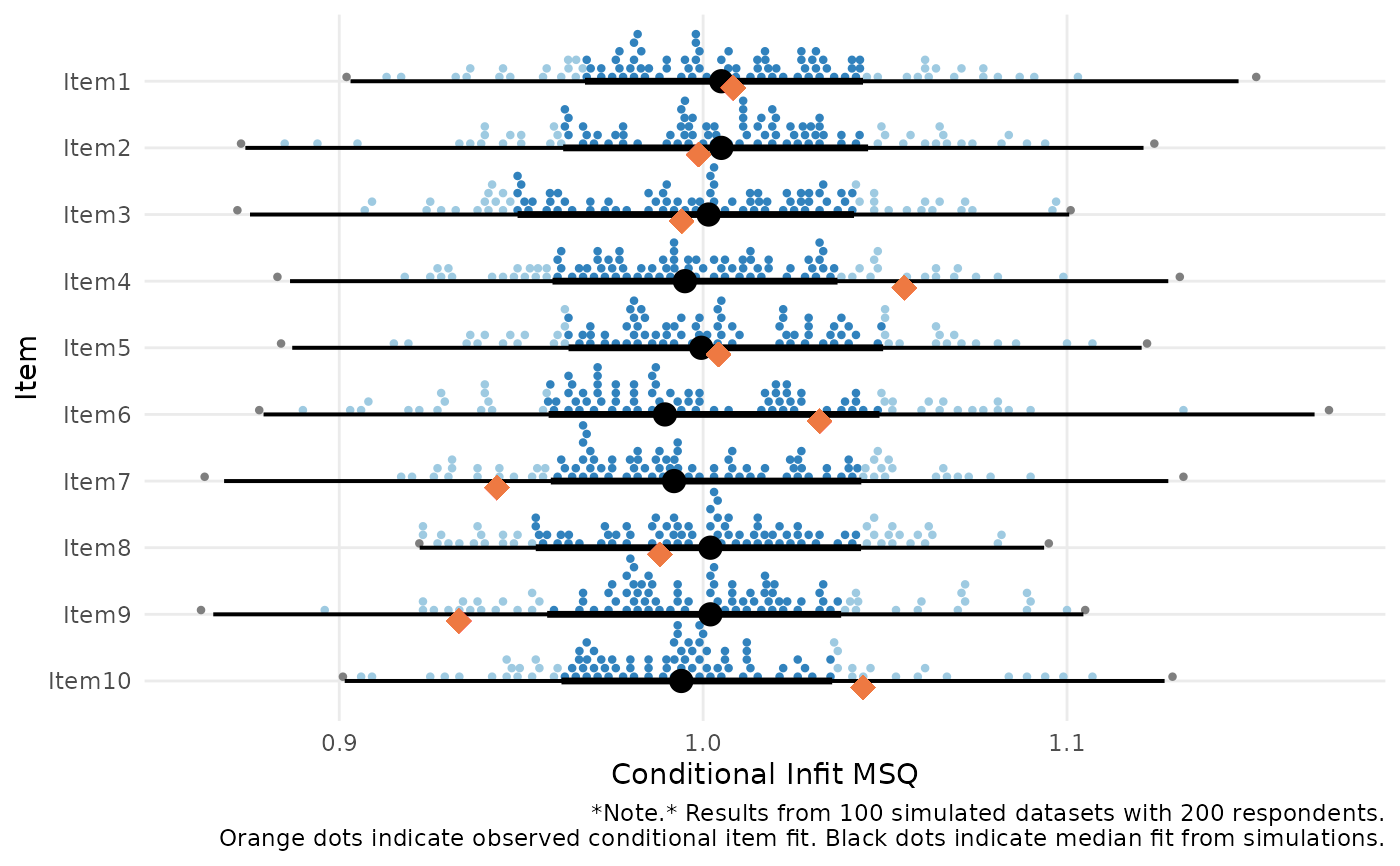
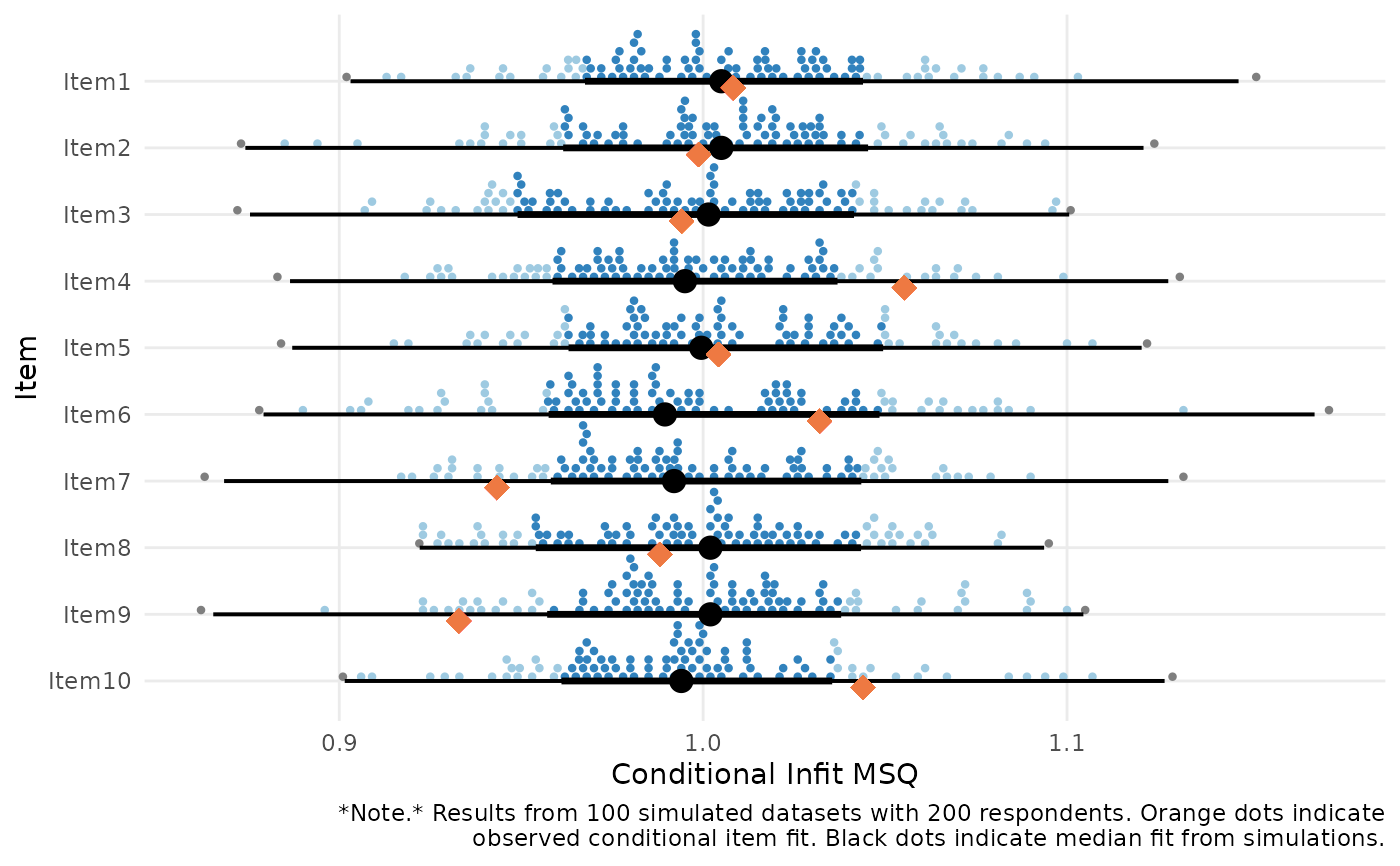
Deploying to gh-pages from @ pgmj/easyRasch2@698937d3c5966bd8b0e131c59c92cd37349e4fb9 🚀

Changed region(s): [[0.1536, 0.9042, 0.9829, 0.9977]]

diff --git a/news/index.html b/news/index.html
@@ -36,6 +36,18 @@
     <div class="section level2">
 <h2 class="pkg-version" data-toc-text="0.8.0" id="easyrasch2-080">easyRasch2 0.8.0<a class="anchor" aria-label="anchor" href="#easyrasch2-080"></a></h2>
 <div class="section level3">
+<h3 id="visual-consistency-across-all-plot-output-0-8-0">Visual consistency across all plot output<a class="anchor" aria-label="anchor" href="#visual-consistency-across-all-plot-output-0-8-0"></a></h3>
+<ul><li>Every <code>RM*</code> function that returns a <code>ggplot</code> now applies three shared internal theme helpers:
+<ul><li>
+<code>er2_axis_margins()</code> — extra breathing room around the x and y axis titles.</li>
+<li>
+<code>er2_plot_caption()</code> — left-aligned 9 pt plot caption. When the optional <code>ggtext</code> package is installed (new in Suggests), the caption renders via <code><a href="https://wilkelab.org/ggtext/reference/element_markdown.html" class="external-link">ggtext::element_markdown()</a></code> so the APA-conventional italic “<em>Note.</em>” prefix can sit alongside roman body text. Without <code>ggtext</code>, it falls back to a plain <code>element_text(face = "italic")</code> and a plain “Note.” prefix — no markdown asterisks ever leak through to the rendered text.</li>
+<li>
+<code>er2_caption()</code> — builds the caption string with the “Note.” prefix and wraps long captions at 90 characters via <code><a href="https://rdrr.io/r/base/strwrap.html" class="external-link">strwrap()</a></code> so they no longer run off the right edge of the plot. The body text is wrapped first then prefixed, so the prefix is never broken by a line break.</li>
+</ul></li>
+<li>All three helpers are internal (<code>@noRd</code>) and not exported.</li>
+</ul></div>
+<div class="section level3">
 <h3 id="new-function-0-8-0">New function<a class="anchor" aria-label="anchor" href="#new-function-0-8-0"></a></h3>
 <ul><li>
 <strong><code><a href="../reference/RMitemCatProb.html">RMitemCatProb()</a></code></strong> plots model-implied category-response probability curves per item, similar to <code><a href="https://rdrr.io/pkg/eRm/man/plotICC.html" class="external-link">eRm::plotICC()</a></code> or <code>mirt</code> trace plots but with a <code>ggplot2</code> / viridis output. Each item gets its own facet panel; one curve per response category is coloured from low to high using a continuous viridis palette. Polytomous items are fit with <code><a href="https://rdrr.io/pkg/eRm/man/PCM.html" class="external-link">eRm::PCM()</a></code>; dichotomous items fall back to <code><a href="https://rdrr.io/pkg/eRm/man/RM.html" class="external-link">eRm::RM()</a></code> (recovering the standard two-category logistic ICC). Optional descriptive <code>item_labels</code> and <code>category_labels</code> make the output report-ready.

diff --git a/authors.html b/authors.html
@@ -44,11 +44,11 @@
           <br><small>PCM simulation code</small></p>
         </li>
         <li>
-          <p><strong>Mirka Henninger</strong>. Contributor.
+          <p><strong>Mirka Henninger</strong>. Contributor. <a href="https://orcid.org/0000-0003-4676-2361" target="orcid.widget" aria-label="ORCID" class="external-link"><span class="fab fa-orcid orcid" aria-hidden="true"></span></a>
           <br><small>MH / partial-gamma effect-size and ETS-classification algorithms in dif_tree.R, adapted under MIT licence from the raschtreeMH and effecttree packages</small></p>
         </li>
         <li>
-          <p><strong>Jan Radek</strong>. Contributor.
+          <p><strong>Jan Radek</strong>. Contributor. <a href="https://orcid.org/0009-0003-8842-9206" target="orcid.widget" aria-label="ORCID" class="external-link"><span class="fab fa-orcid orcid" aria-hidden="true"></span></a>
           <br><small>partial-gamma effect-size and ETS-classification algorithms in dif_tree.R, adapted under MIT licence from the effecttree package</small></p>
         </li>
       </ul></div>
@@ -58,11 +58,11 @@
       <p><small class="dont-index">Source: <a href="https://github.com/pgmj/easyRasch2/blob/main/DESCRIPTION" class="external-link"><code>DESCRIPTION</code></a></small></p>
 
       <p>Johansson M (2026).
-<em>easyRasch2: Rasch Measurement Theory Analysis for R</em>.
+<em>easyRasch2: Psychometric Analysis with Rasch Measurement Theory</em>.
 R package version 0.8.0, <a href="https://github.com/pgmj/easyRasch2" class="external-link">https://github.com/pgmj/easyRasch2</a>.
 </p>
       <pre>@Manual{,
-  title = {easyRasch2: Rasch Measurement Theory Analysis for R},
+  title = {easyRasch2: Psychometric Analysis with Rasch Measurement Theory},
   author = {Magnus Johansson},
   year = {2026},
   note = {R package version 0.8.0},

diff --git a/reference/easyRasch2-package.html b/reference/easyRasch2-package.html
@@ -1,5 +1,5 @@
 <!DOCTYPE html>
-<!-- Generated by pkgdown: do not edit by hand --><html lang="en"><head><meta http-equiv="Content-Type" content="text/html; charset=UTF-8"><meta charset="utf-8"><meta http-equiv="X-UA-Compatible" content="IE=edge"><meta name="viewport" content="width=device-width, initial-scale=1, shrink-to-fit=no"><title>easyRasch2: Rasch Measurement Theory Analysis for R — easyRasch2-package • easyRasch2</title><!-- katex math --><link rel="stylesheet" href="https://cdn.jsdelivr.net/npm/katex@0.16.11/dist/katex.min.css" integrity="sha384-nB0miv6/jRmo5UMMR1wu3Gz6NLsoTkbqJghGIsx//Rlm+ZU03BU6SQNC66uf4l5+" crossorigin="anonymous"><script defer src="https://cdn.jsdelivr.net/npm/katex@0.16.11/dist/katex.min.js" integrity="sha384-7zkQWkzuo3B5mTepMUcHkMB5jZaolc2xDwL6VFqjFALcbeS9Ggm/Yr2r3Dy4lfFg" crossorigin="anonymous"></script><script defer src="https://cdn.jsdelivr.net/npm/katex@0.16.11/dist/contrib/auto-render.min.js" integrity="sha384-43gviWU0YVjaDtb/GhzOouOXtZMP/7XUzwPTstBeZFe/+rCMvRwr4yROQP43s0Xk" crossorigin="anonymous" onload="renderMathInElement(document.body);"></script><script src="../katex-auto.js"></script><script src="../deps/jquery-3.6.0/jquery-3.6.0.min.js"></script><meta name="viewport" content="width=device-width, initial-scale=1, shrink-to-fit=no"><link href="../deps/bootstrap-5.3.8/bootstrap.min.css" rel="stylesheet"><script src="../deps/bootstrap-5.3.8/bootstrap.bundle.min.js"></script><link href="../deps/font-awesome-6.5.2/css/all.min.css" rel="stylesheet"><link href="../deps/font-awesome-6.5.2/css/v4-shims.min.css" rel="stylesheet"><script src="../deps/headroom-0.11.0/headroom.min.js"></script><script src="../deps/headroom-0.11.0/jQuery.headroom.min.js"></script><script src="../deps/bootstrap-toc-1.0.1/bootstrap-toc.min.js"></script><script src="../deps/clipboard.js-2.0.11/clipboard.min.js"></script><script src="../deps/search-1.0.0/autocomplete.jquery.min.js"></script><script src="../deps/search-1.0.0/fuse.min.js"></script><script src="../deps/search-1.0.0/mark.min.js"></script><!-- pkgdown --><script src="../pkgdown.js"></script><meta property="og:title" content="easyRasch2: Rasch Measurement Theory Analysis for R — easyRasch2-package"><meta name="description" content="Streamlines reproducible Rasch measurement theory analyses for ordinal item-response data, combining estimation routines from 'eRm', 'psychotools', 'mirt', 'iarm', and 'lavaan' with consistent diagnostic, plotting, and reporting layers. Covers the four basic psychometric criteria summarised by Christensen et al. (2021) doi:10.1111/sms.13908
+<!-- Generated by pkgdown: do not edit by hand --><html lang="en"><head><meta http-equiv="Content-Type" content="text/html; charset=UTF-8"><meta charset="utf-8"><meta http-equiv="X-UA-Compatible" content="IE=edge"><meta name="viewport" content="width=device-width, initial-scale=1, shrink-to-fit=no"><title>easyRasch2: Psychometric Analysis with Rasch Measurement Theory — easyRasch2-package • easyRasch2</title><!-- katex math --><link rel="stylesheet" href="https://cdn.jsdelivr.net/npm/katex@0.16.11/dist/katex.min.css" integrity="sha384-nB0miv6/jRmo5UMMR1wu3Gz6NLsoTkbqJghGIsx//Rlm+ZU03BU6SQNC66uf4l5+" crossorigin="anonymous"><script defer src="https://cdn.jsdelivr.net/npm/katex@0.16.11/dist/katex.min.js" integrity="sha384-7zkQWkzuo3B5mTepMUcHkMB5jZaolc2xDwL6VFqjFALcbeS9Ggm/Yr2r3Dy4lfFg" crossorigin="anonymous"></script><script defer src="https://cdn.jsdelivr.net/npm/katex@0.16.11/dist/contrib/auto-render.min.js" integrity="sha384-43gviWU0YVjaDtb/GhzOouOXtZMP/7XUzwPTstBeZFe/+rCMvRwr4yROQP43s0Xk" crossorigin="anonymous" onload="renderMathInElement(document.body);"></script><script src="../katex-auto.js"></script><script src="../deps/jquery-3.6.0/jquery-3.6.0.min.js"></script><meta name="viewport" content="width=device-width, initial-scale=1, shrink-to-fit=no"><link href="../deps/bootstrap-5.3.8/bootstrap.min.css" rel="stylesheet"><script src="../deps/bootstrap-5.3.8/bootstrap.bundle.min.js"></script><link href="../deps/font-awesome-6.5.2/css/all.min.css" rel="stylesheet"><link href="../deps/font-awesome-6.5.2/css/v4-shims.min.css" rel="stylesheet"><script src="../deps/headroom-0.11.0/headroom.min.js"></script><script src="../deps/headroom-0.11.0/jQuery.headroom.min.js"></script><script src="../deps/bootstrap-toc-1.0.1/bootstrap-toc.min.js"></script><script src="../deps/clipboard.js-2.0.11/clipboard.min.js"></script><script src="../deps/search-1.0.0/autocomplete.jquery.min.js"></script><script src="../deps/search-1.0.0/fuse.min.js"></script><script src="../deps/search-1.0.0/mark.min.js"></script><!-- pkgdown --><script src="../pkgdown.js"></script><meta property="og:title" content="easyRasch2: Psychometric Analysis with Rasch Measurement Theory — easyRasch2-package"><meta name="description" content="Streamlines reproducible Rasch measurement theory analyses for ordinal item-response data, combining estimation routines from 'eRm', 'psychotools', 'mirt', 'iarm', and 'lavaan' with consistent diagnostic, plotting, and reporting layers. Covers the four basic psychometric criteria summarised by Christensen et al. (2021) doi:10.1111/sms.13908
  – unidimensionality, local independence, ordered response category thresholds, and invariance across subgroups – together with item fit, targeting, reliability, category functioning, and descriptive item-response plots. A distinguishing feature is the use of simulation-based critical values to replace rule-of-thumb cutoffs for conditional infit mean-square, Yen's Q3 local-dependence statistic, the largest residual-PCA eigenvalue, and ordinal CFA fit indices. Outputs are 'knitr::kable()' tables and 'ggplot2' figures suitable for direct inclusion in 'Quarto' and 'R Markdown' reports."><meta property="og:description" content="Streamlines reproducible Rasch measurement theory analyses for ordinal item-response data, combining estimation routines from 'eRm', 'psychotools', 'mirt', 'iarm', and 'lavaan' with consistent diagnostic, plotting, and reporting layers. Covers the four basic psychometric criteria summarised by Christensen et al. (2021) doi:10.1111/sms.13908
  – unidimensionality, local independence, ordered response category thresholds, and invariance across subgroups – together with item fit, targeting, reliability, category functioning, and descriptive item-response plots. A distinguishing feature is the use of simulation-based critical values to replace rule-of-thumb cutoffs for conditional infit mean-square, Yen's Q3 local-dependence statistic, the largest residual-PCA eigenvalue, and ordinal CFA fit indices. Outputs are 'knitr::kable()' tables and 'ggplot2' figures suitable for direct inclusion in 'Quarto' and 'R Markdown' reports."></head><body>
     <a href="#main" class="visually-hidden-focusable">Skip to contents</a>
@@ -31,7 +31,7 @@
 <div class="row">
   <main id="main" class="col-md-9"><div class="page-header">
 
-      <h1>easyRasch2: Rasch Measurement Theory Analysis for R</h1>
+      <h1>easyRasch2: Psychometric Analysis with Rasch Measurement Theory</h1>
       <small class="dont-index">Source: <a href="https://github.com/pgmj/easyRasch2/blob/main/R/easyRasch2-package.R" class="external-link"><code>R/easyRasch2-package.R</code></a></small>
       <div class="d-none name"><code>easyRasch2-package.Rd</code></div>
     </div>
@@ -53,8 +53,8 @@
     <h2 id="author">Author<a class="anchor" aria-label="anchor" href="#author"></a></h2>
     <p><strong>Maintainer</strong>: Magnus Johansson <a href="mailto:[email redacted]">[email redacted]</a> (<a href="https://orcid.org/0000-0003-1669-592X" class="external-link">ORCID</a>)</p>
 <p>Other contributors:</p><ul><li><p>Nicklas Korsell (PCM simulation code) [contributor]</p></li>
-<li><p>Mirka Henninger (MH / partial-gamma effect-size and ETS-classification algorithms in dif_tree.R, adapted under MIT licence from the raschtreeMH and effecttree packages) [contributor]</p></li>
-<li><p>Jan Radek (partial-gamma effect-size and ETS-classification algorithms in dif_tree.R, adapted under MIT licence from the effecttree package) [contributor]</p></li>
+<li><p>Mirka Henninger (<a href="https://orcid.org/0000-0003-4676-2361" class="external-link">ORCID</a>) (MH / partial-gamma effect-size and ETS-classification algorithms in dif_tree.R, adapted under MIT licence from the raschtreeMH and effecttree packages) [contributor]</p></li>
+<li><p>Jan Radek (<a href="https://orcid.org/0009-0003-8842-9206" class="external-link">ORCID</a>) (partial-gamma effect-size and ETS-classification algorithms in dif_tree.R, adapted under MIT licence from the effecttree package) [contributor]</p></li>
 </ul></div>
 
   </main><aside class="col-md-3"><nav id="toc" aria-label="Table of contents"><h2>On this page</h2>

diff --git a/index.html b/index.html
@@ -5,13 +5,13 @@
 <meta charset="utf-8">
 <meta http-equiv="X-UA-Compatible" content="IE=edge">
 <meta name="viewport" content="width=device-width, initial-scale=1, shrink-to-fit=no">
-<title>Rasch Measurement Theory Analysis for R • easyRasch2</title>
+<title>Psychometric Analysis with Rasch Measurement Theory • easyRasch2</title>
 <!-- katex math --><link rel="stylesheet" href="https://cdn.jsdelivr.net/npm/katex@0.16.11/dist/katex.min.css" integrity="sha384-nB0miv6/jRmo5UMMR1wu3Gz6NLsoTkbqJghGIsx//Rlm+ZU03BU6SQNC66uf4l5+" crossorigin="anonymous">
 <script defer src="https://cdn.jsdelivr.net/npm/katex@0.16.11/dist/katex.min.js" integrity="sha384-7zkQWkzuo3B5mTepMUcHkMB5jZaolc2xDwL6VFqjFALcbeS9Ggm/Yr2r3Dy4lfFg" crossorigin="anonymous"></script><script defer src="https://cdn.jsdelivr.net/npm/katex@0.16.11/dist/contrib/auto-render.min.js" integrity="sha384-43gviWU0YVjaDtb/GhzOouOXtZMP/7XUzwPTstBeZFe/+rCMvRwr4yROQP43s0Xk" crossorigin="anonymous" onload="renderMathInElement(document.body);"></script><script src="katex-auto.js"></script><script src="deps/jquery-3.6.0/jquery-3.6.0.min.js"></script><meta name="viewport" content="width=device-width, initial-scale=1, shrink-to-fit=no">
 <link href="deps/bootstrap-5.3.8/bootstrap.min.css" rel="stylesheet">
 <script src="deps/bootstrap-5.3.8/bootstrap.bundle.min.js"></script><link href="deps/font-awesome-6.5.2/css/all.min.css" rel="stylesheet">
 <link href="deps/font-awesome-6.5.2/css/v4-shims.min.css" rel="stylesheet">
-<script src="deps/headroom-0.11.0/headroom.min.js"></script><script src="deps/headroom-0.11.0/jQuery.headroom.min.js"></script><script src="deps/bootstrap-toc-1.0.1/bootstrap-toc.min.js"></script><script src="deps/clipboard.js-2.0.11/clipboard.min.js"></script><script src="deps/search-1.0.0/autocomplete.jquery.min.js"></script><script src="deps/search-1.0.0/fuse.min.js"></script><script src="deps/search-1.0.0/mark.min.js"></script><!-- pkgdown --><script src="pkgdown.js"></script><meta property="og:title" content="Rasch Measurement Theory Analysis for R">
+<script src="deps/headroom-0.11.0/headroom.min.js"></script><script src="deps/headroom-0.11.0/jQuery.headroom.min.js"></script><script src="deps/bootstrap-toc-1.0.1/bootstrap-toc.min.js"></script><script src="deps/clipboard.js-2.0.11/clipboard.min.js"></script><script src="deps/search-1.0.0/autocomplete.jquery.min.js"></script><script src="deps/search-1.0.0/fuse.min.js"></script><script src="deps/search-1.0.0/mark.min.js"></script><!-- pkgdown --><script src="pkgdown.js"></script><meta property="og:title" content="Psychometric Analysis with Rasch Measurement Theory">
 <meta name="description" content="Streamlines reproducible Rasch measurement theory analyses for ordinal item-response data, combining estimation routines from eRm, psychotools, mirt, iarm, and lavaan with consistent diagnostic, plotting, and reporting layers. Covers the four basic psychometric criteria summarised by Christensen et al. (2021) &lt;doi:10.1111/sms.13908&gt; -- unidimensionality, local independence, ordered response category thresholds, and invariance across subgroups -- together with item fit, targeting, reliability, category functioning, and descriptive item-response plots. A distinguishing feature is the use of simulation-based critical values to replace rule-of-thumb cutoffs for conditional infit mean-square, Yens Q3 local-dependence statistic, the largest residual-PCA eigenvalue, and ordinal CFA fit indices. Outputs are knitr::kable() tables and ggplot2 figures suitable for direct inclusion in Quarto and R Markdown' reports.">
 <meta property="og:description" content="Streamlines reproducible Rasch measurement theory analyses for ordinal item-response data, combining estimation routines from eRm, psychotools, mirt, iarm, and lavaan with consistent diagnostic, plotting, and reporting layers. Covers the four basic psychometric criteria summarised by Christensen et al. (2021) &lt;doi:10.1111/sms.13908&gt; -- unidimensionality, local independence, ordered response category thresholds, and invariance across subgroups -- together with item fit, targeting, reliability, category functioning, and descriptive item-response plots. A distinguishing feature is the use of simulation-based critical values to replace rule-of-thumb cutoffs for conditional infit mean-square, Yens Q3 local-dependence statistic, the largest residual-PCA eigenvalue, and ordinal CFA fit indices. Outputs are knitr::kable() tables and ggplot2 figures suitable for direct inclusion in Quarto and R Markdown' reports.">
 </head>

diff --git a/news/index.md b/news/index.md
@@ -2,6 +2,27 @@
 
 ## easyRasch2 0.8.0
 
+### Visual consistency across all plot output
+
+- Every `RM*` function that returns a `ggplot` now applies three shared
+  internal theme helpers:
+  - `er2_axis_margins()` — extra breathing room around the x and y axis
+    titles.
+  - `er2_plot_caption()` — left-aligned 9 pt plot caption. When the
+    optional `ggtext` package is installed (new in Suggests), the
+    caption renders via
+    [`ggtext::element_markdown()`](https://wilkelab.org/ggtext/reference/element_markdown.html)
+    so the APA-conventional italic “*Note.*” prefix can sit alongside
+    roman body text. Without `ggtext`, it falls back to a plain
+    `element_text(face = "italic")` and a plain “Note.” prefix — no
+    markdown asterisks ever leak through to the rendered text.
+  - `er2_caption()` — builds the caption string with the “Note.” prefix
+    and wraps long captions at 90 characters via
+    [`strwrap()`](https://rdrr.io/r/base/strwrap.html) so they no longer
+    run off the right edge of the plot. The body text is wrapped first
+    then prefixed, so the prefix is never broken by a line break.
+- All three helpers are internal (`@noRd`) and not exported.
+
 ### New function
 
 - **[`RMitemCatProb()`](https://pgmj.github.io/easyRasch2/reference/RMitemCatProb.md)**

diff --git a/reference/easyRasch2-package.md b/reference/easyRasch2-package.md
@@ -1,4 +1,4 @@
-# easyRasch2: Rasch Measurement Theory Analysis for R
+# easyRasch2: Psychometric Analysis with Rasch Measurement Theory
 
 Streamlines reproducible Rasch measurement theory analyses for ordinal
 item-response data, combining estimation routines from 'eRm',
@@ -35,10 +35,12 @@ Other contributors:
 
 - Nicklas Korsell (PCM simulation code) \[contributor\]
 
-- Mirka Henninger (MH / partial-gamma effect-size and ETS-classification
-  algorithms in dif_tree.R, adapted under MIT licence from the
-  raschtreeMH and effecttree packages) \[contributor\]
+- Mirka Henninger ([ORCID](https://orcid.org/0000-0003-4676-2361)) (MH /
+  partial-gamma effect-size and ETS-classification algorithms in
+  dif_tree.R, adapted under MIT licence from the raschtreeMH and
+  effecttree packages) \[contributor\]
 
-- Jan Radek (partial-gamma effect-size and ETS-classification algorithms
-  in dif_tree.R, adapted under MIT licence from the effecttree package)
+- Jan Radek ([ORCID](https://orcid.org/0009-0003-8842-9206))
+  (partial-gamma effect-size and ETS-classification algorithms in
+  dif_tree.R, adapted under MIT licence from the effecttree package)
   \[contributor\]

diff --git a/authors.md b/authors.md
@@ -8,12 +8,14 @@
 - **Nicklas Korsell**. Contributor.  
   PCM simulation code
 
-- **Mirka Henninger**. Contributor.  
+- **Mirka Henninger**. Contributor.
+  [](https://orcid.org/0000-0003-4676-2361)  
   MH / partial-gamma effect-size and ETS-classification algorithms in
   dif_tree.R, adapted under MIT licence from the raschtreeMH and
   effecttree packages
 
-- **Jan Radek**. Contributor.  
+- **Jan Radek**. Contributor.
+  [](https://orcid.org/0009-0003-8842-9206)  
   partial-gamma effect-size and ETS-classification algorithms in
   dif_tree.R, adapted under MIT licence from the effecttree package
 
@@ -22,11 +24,12 @@
 Source:
 [`DESCRIPTION`](https://github.com/pgmj/easyRasch2/blob/main/DESCRIPTION)
 
-Johansson M (2026). *easyRasch2: Rasch Measurement Theory Analysis for
-R*. R package version 0.8.0, <https://github.com/pgmj/easyRasch2>.
+Johansson M (2026). *easyRasch2: Psychometric Analysis with Rasch
+Measurement Theory*. R package version 0.8.0,
+<https://github.com/pgmj/easyRasch2>.
 
     @Manual{,
-      title = {easyRasch2: Rasch Measurement Theory Analysis for R},
+      title = {easyRasch2: Psychometric Analysis with Rasch Measurement Theory},
       author = {Magnus Johansson},
       year = {2026},
       note = {R package version 0.8.0},